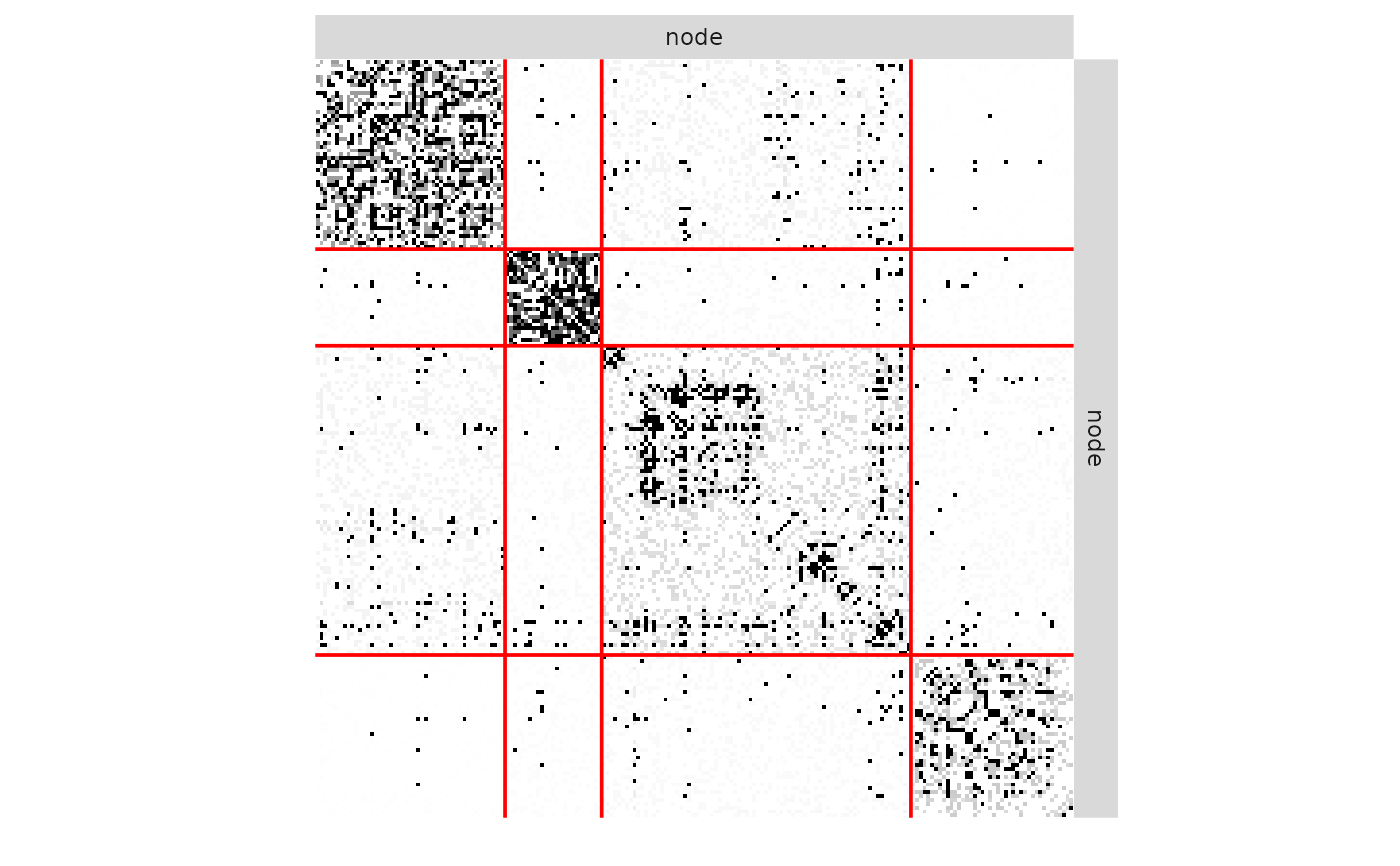
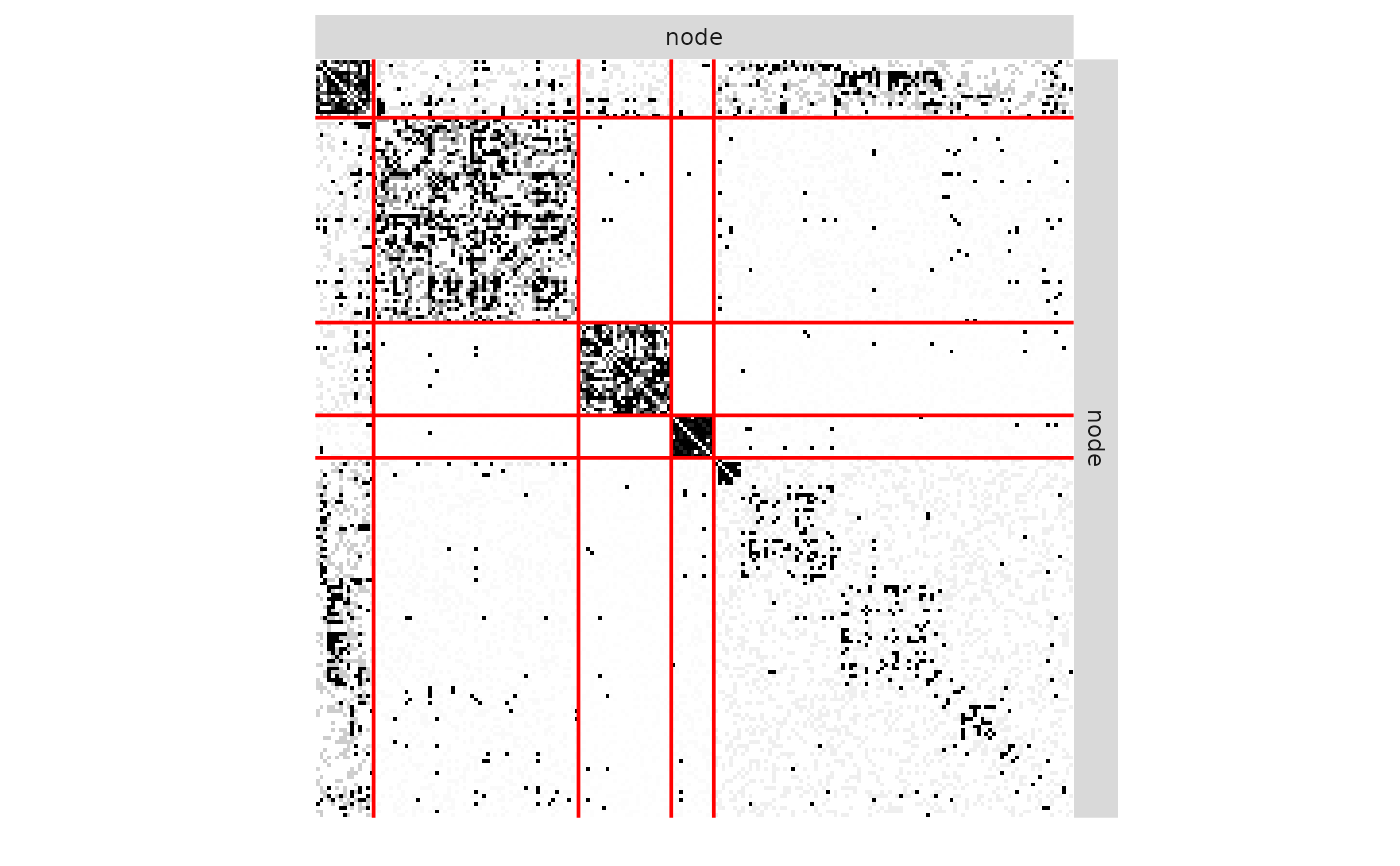
Deploying to gh-pages from @ GrossSBM/missSBM@8db52d9a44d19e7565bcc969e93a358b88ce12c9 🚀

Changed region(s): [[0.215, 0.0624, 0.7679, 0.9353], [0.645, 0.1871, 0.6757, 0.2494]]

diff --git a/articles/index.html b/articles/index.html
@@ -16,10 +16,7 @@
 
     <div id="navbar" class="collapse navbar-collapse ms-3">
       <ul class="navbar-nav me-auto"><li class="nav-item"><a class="nav-link" href="../reference/index.html">Reference</a></li>
-<li class="nav-item dropdown">
-  <button class="nav-link dropdown-toggle" type="button" id="dropdown-articles" data-bs-toggle="dropdown" aria-expanded="false" aria-haspopup="true">Articles</button>
-  <ul class="dropdown-menu" aria-labelledby="dropdown-articles"><li><a class="dropdown-item" href="../articles/case_study_war_networks.html">missSBM: a case study with war networks</a></li>
-  </ul></li>
+<li class="active nav-item"><a class="nav-link" href="../articles/index.html">Articles</a></li>
 <li class="nav-item"><a class="nav-link" href="../news/index.html">Changelog</a></li>
       </ul><ul class="navbar-nav"><li class="nav-item"><form class="form-inline" role="search">
  <input class="form-control" type="search" name="search-input" id="search-input" autocomplete="off" aria-label="Search site" placeholder="Search for" data-search-index="../search.json"></form></li>
@@ -36,11 +33,13 @@
     </div>
 
     <div class="section ">
-      <h3>All vignettes</h3>
+      <h3>Articles</h3>
       <div class="section-desc"></div>
 
       <dl><dt><a href="case_study_war_networks.html">missSBM: a case study with war networks</a></dt>
         <dd>
+        </dd><dt><a href="https://doi.org/10.18637/jss.v101.i12" class="external-link">missSBM: An R Package for Handling Missing Values in the Stochastic Block Model (JSS)</a></dt>
+        <dd><p>The companion paper (Barbillon, Chiquet &amp; Tabouy, 2022), published in the Journal of Statistical Software, describing the models and the missSBM package in detail.</p>
       </dd></dl></div>
   </main></div>
 

diff --git a/index.html b/index.html
@@ -32,12 +32,7 @@
     <div id="navbar" class="collapse navbar-collapse ms-3">
       <ul class="navbar-nav me-auto">
 <li class="nav-item"><a class="nav-link" href="reference/index.html">Reference</a></li>
-<li class="nav-item dropdown">
-  <button class="nav-link dropdown-toggle" type="button" id="dropdown-articles" data-bs-toggle="dropdown" aria-expanded="false" aria-haspopup="true">Articles</button>
-  <ul class="dropdown-menu" aria-labelledby="dropdown-articles">
-<li><a class="dropdown-item" href="articles/case_study_war_networks.html">missSBM: a case study with war networks</a></li>
-  </ul>
-</li>
+<li class="nav-item"><a class="nav-link" href="articles/index.html">Articles</a></li>
 <li class="nav-item"><a class="nav-link" href="news/index.html">Changelog</a></li>
       </ul>
 <ul class="navbar-nav">
@@ -133,7 +128,7 @@
 <div class="sourceCode" id="cb13"><pre class="downlit sourceCode r">
 <code class="sourceCode R"><span><span class="fu"><a href="https://rdrr.io/r/graphics/plot.default.html" class="external-link">plot</a></span><span class="op">(</span><span class="va">partial_fit</span><span class="op">$</span><span class="va">bestModel</span>, <span class="st">"expected"</span>, dimLabels <span class="op">=</span> <span class="fu"><a href="https://rdrr.io/r/base/list.html" class="external-link">list</a></span><span class="op">(</span>row <span class="op">=</span> <span class="st">"blogs"</span>, col <span class="op">=</span> <span class="st">"blogs"</span><span class="op">)</span><span class="op">)</span></span></code></pre></div>
 <p><img src="reference/figures/README-plot-expected-2.png"></p>
-<p>See <code><a href="articles/case_study_war_networks.html">vignette("case_study_war_networks")</a></code> and <a href="https://grosssbm.github.io/missSBM/articles/">the other articles</a> for a more comprehensive tour, including covariates and further sampling designs.</p>
+<p>See <code><a href="articles/case_study_war_networks.html">vignette("case_study_war_networks")</a></code> and <a href="https://doi.org/10.18637/jss.v101.i12" class="external-link">the JSS article</a> for a more comprehensive tour, including covariates and further sampling designs.</p>
 </div>
 </div>
 <div class="section level2">

diff --git a/404.html b/404.html
@@ -30,12 +30,7 @@
     <div id="navbar" class="collapse navbar-collapse ms-3">
       <ul class="navbar-nav me-auto">
 <li class="nav-item"><a class="nav-link" href="https://grosssbm.github.io/missSBM/reference/index.html">Reference</a></li>
-<li class="nav-item dropdown">
-  <button class="nav-link dropdown-toggle" type="button" id="dropdown-articles" data-bs-toggle="dropdown" aria-expanded="false" aria-haspopup="true">Articles</button>
-  <ul class="dropdown-menu" aria-labelledby="dropdown-articles">
-<li><a class="dropdown-item" href="https://grosssbm.github.io/missSBM/articles/case_study_war_networks.html">missSBM: a case study with war networks</a></li>
-  </ul>
-</li>
+<li class="nav-item"><a class="nav-link" href="https://grosssbm.github.io/missSBM/articles/index.html">Articles</a></li>
 <li class="nav-item"><a class="nav-link" href="https://grosssbm.github.io/missSBM/news/index.html">Changelog</a></li>
       </ul>
 <ul class="navbar-nav">

diff --git a/articles/case_study_war_networks.html b/articles/case_study_war_networks.html
@@ -30,12 +30,7 @@
     <div id="navbar" class="collapse navbar-collapse ms-3">
       <ul class="navbar-nav me-auto">
 <li class="nav-item"><a class="nav-link" href="../reference/index.html">Reference</a></li>
-<li class="active nav-item dropdown">
-  <button class="nav-link dropdown-toggle" type="button" id="dropdown-articles" data-bs-toggle="dropdown" aria-expanded="false" aria-haspopup="true">Articles</button>
-  <ul class="dropdown-menu" aria-labelledby="dropdown-articles">
-<li><a class="dropdown-item" href="../articles/case_study_war_networks.html">missSBM: a case study with war networks</a></li>
-  </ul>
-</li>
+<li class="active nav-item"><a class="nav-link" href="../articles/index.html">Articles</a></li>
 <li class="nav-item"><a class="nav-link" href="../news/index.html">Changelog</a></li>
       </ul>
 <ul class="navbar-nav">

diff --git a/reference/missSBM_collection.html b/reference/missSBM_collection.html
@@ -26,10 +26,7 @@ as S3 methods. See the documentation for show() and print()"></head><body>
 
     <div id="navbar" class="collapse navbar-collapse ms-3">
       <ul class="navbar-nav me-auto"><li class="active nav-item"><a class="nav-link" href="../reference/index.html">Reference</a></li>
-<li class="nav-item dropdown">
-  <button class="nav-link dropdown-toggle" type="button" id="dropdown-articles" data-bs-toggle="dropdown" aria-expanded="false" aria-haspopup="true">Articles</button>
-  <ul class="dropdown-menu" aria-labelledby="dropdown-articles"><li><a class="dropdown-item" href="../articles/case_study_war_networks.html">missSBM: a case study with war networks</a></li>
-  </ul></li>
+<li class="nav-item"><a class="nav-link" href="../articles/index.html">Articles</a></li>
 <li class="nav-item"><a class="nav-link" href="../news/index.html">Changelog</a></li>
       </ul><ul class="navbar-nav"><li class="nav-item"><form class="form-inline" role="search">
  <input class="form-control" type="search" name="search-input" id="search-input" autocomplete="off" aria-label="Search site" placeholder="Search for" data-search-index="../search.json"></form></li>
@@ -296,7 +293,7 @@ directions are searched. Default "both".</p></dd>
 <span class="r-out co"><span class="r-pr">#&gt;</span> </span>
 <span class="r-out co"><span class="r-pr">#&gt;</span>  Initialization of 5 model(s). </span>
 <span class="r-out co"><span class="r-pr">#&gt;</span>  Performing VEM inference</span>
-<span class="r-out co"><span class="r-pr">#&gt;</span>  	Model with 1 blocks.
 	Model with 5 blocks.
 	Model with 3 blocks.
 	Model with 4 blocks.
 	Model with 2 blocks.
 Polishing (node-swap)</span>
+<span class="r-out co"><span class="r-pr">#&gt;</span>  	Model with 5 blocks.
 	Model with 1 blocks.
 	Model with 4 blocks.
 	Model with 3 blocks.
 	Model with 2 blocks.
 Polishing (node-swap)</span>
 <span class="r-out co"><span class="r-pr">#&gt;</span> </span>
 <span class="r-out co"><span class="r-pr">#&gt;</span>  Looking for better solutions</span>
 <span class="r-out co"><span class="r-pr">#&gt;</span>  Pass 1   Going forward ++++
                                                                                                    
 Pass 1   Going backward ++++
                                                                                                    
</span>

diff --git a/reference/missSBM_fit.html b/reference/missSBM_fit.html
@@ -24,10 +24,7 @@ as S3 methods. See the documentation for  show(), print(), fitted(), predict(), 
 
     <div id="navbar" class="collapse navbar-collapse ms-3">
       <ul class="navbar-nav me-auto"><li class="active nav-item"><a class="nav-link" href="../reference/index.html">Reference</a></li>
-<li class="nav-item dropdown">
-  <button class="nav-link dropdown-toggle" type="button" id="dropdown-articles" data-bs-toggle="dropdown" aria-expanded="false" aria-haspopup="true">Articles</button>
-  <ul class="dropdown-menu" aria-labelledby="dropdown-articles"><li><a class="dropdown-item" href="../articles/case_study_war_networks.html">missSBM: a case study with war networks</a></li>
-  </ul></li>
+<li class="nav-item"><a class="nav-link" href="../articles/index.html">Articles</a></li>
 <li class="nav-item"><a class="nav-link" href="../news/index.html">Changelog</a></li>
       </ul><ul class="navbar-nav"><li class="nav-item"><form class="form-inline" role="search">
  <input class="form-control" type="search" name="search-input" id="search-input" autocomplete="off" aria-label="Search site" placeholder="Search for" data-search-index="../search.json"></form></li>
@@ -390,7 +387,7 @@ than before the call.</p><div class="section">
 <span class="r-out co"><span class="r-pr">#&gt;</span> </span>
 <span class="r-out co"><span class="r-pr">#&gt;</span>  Initialization of 3 model(s). </span>
 <span class="r-out co"><span class="r-pr">#&gt;</span>  Performing VEM inference</span>
-<span class="r-out co"><span class="r-pr">#&gt;</span>  	Model with 3 blocks.
 	Model with 5 blocks.
 	Model with 4 blocks.
 Polishing (node-swap)</span>
+<span class="r-out co"><span class="r-pr">#&gt;</span>  	Model with 4 blocks.
 	Model with 5 blocks.
 	Model with 3 blocks.
 Polishing (node-swap)</span>
 <span class="r-out co"><span class="r-pr">#&gt;</span> </span>
 <span class="r-out co"><span class="r-pr">#&gt;</span>  Looking for better solutions</span>
 <span class="r-out co"><span class="r-pr">#&gt;</span>  Pass 1   Going forward ++
                                                                                                    
 Pass 1   Going backward ++
                                                                                                    
</span>

diff --git a/LICENSE.html b/LICENSE.html
@@ -16,10 +16,7 @@
 
     <div id="navbar" class="collapse navbar-collapse ms-3">
       <ul class="navbar-nav me-auto"><li class="nav-item"><a class="nav-link" href="reference/index.html">Reference</a></li>
-<li class="nav-item dropdown">
-  <button class="nav-link dropdown-toggle" type="button" id="dropdown-articles" data-bs-toggle="dropdown" aria-expanded="false" aria-haspopup="true">Articles</button>
-  <ul class="dropdown-menu" aria-labelledby="dropdown-articles"><li><a class="dropdown-item" href="articles/case_study_war_networks.html">missSBM: a case study with war networks</a></li>
-  </ul></li>
+<li class="nav-item"><a class="nav-link" href="articles/index.html">Articles</a></li>
 <li class="nav-item"><a class="nav-link" href="news/index.html">Changelog</a></li>
       </ul><ul class="navbar-nav"><li class="nav-item"><form class="form-inline" role="search">
  <input class="form-control" type="search" name="search-input" id="search-input" autocomplete="off" aria-label="Search site" placeholder="Search for" data-search-index="search.json"></form></li>

diff --git a/authors.html b/authors.html
@@ -16,10 +16,7 @@
 
     <div id="navbar" class="collapse navbar-collapse ms-3">
       <ul class="navbar-nav me-auto"><li class="nav-item"><a class="nav-link" href="reference/index.html">Reference</a></li>
-<li class="nav-item dropdown">
-  <button class="nav-link dropdown-toggle" type="button" id="dropdown-articles" data-bs-toggle="dropdown" aria-expanded="false" aria-haspopup="true">Articles</button>
-  <ul class="dropdown-menu" aria-labelledby="dropdown-articles"><li><a class="dropdown-item" href="articles/case_study_war_networks.html">missSBM: a case study with war networks</a></li>
-  </ul></li>
+<li class="nav-item"><a class="nav-link" href="articles/index.html">Articles</a></li>
 <li class="nav-item"><a class="nav-link" href="news/index.html">Changelog</a></li>
       </ul><ul class="navbar-nav"><li class="nav-item"><form class="form-inline" role="search">
  <input class="form-control" type="search" name="search-input" id="search-input" autocomplete="off" aria-label="Search site" placeholder="Search for" data-search-index="search.json"></form></li>

diff --git a/news/index.html b/news/index.html
@@ -16,10 +16,7 @@
 
     <div id="navbar" class="collapse navbar-collapse ms-3">
       <ul class="navbar-nav me-auto"><li class="nav-item"><a class="nav-link" href="../reference/index.html">Reference</a></li>
-<li class="nav-item dropdown">
-  <button class="nav-link dropdown-toggle" type="button" id="dropdown-articles" data-bs-toggle="dropdown" aria-expanded="false" aria-haspopup="true">Articles</button>
-  <ul class="dropdown-menu" aria-labelledby="dropdown-articles"><li><a class="dropdown-item" href="../articles/case_study_war_networks.html">missSBM: a case study with war networks</a></li>
-  </ul></li>
+<li class="nav-item"><a class="nav-link" href="../articles/index.html">Articles</a></li>
 <li class="active nav-item"><a class="nav-link" href="../news/index.html">Changelog</a></li>
       </ul><ul class="navbar-nav"><li class="nav-item"><form class="form-inline" role="search">
  <input class="form-control" type="search" name="search-input" id="search-input" autocomplete="off" aria-label="Search site" placeholder="Search for" data-search-index="../search.json"></form></li>

diff --git a/reference/SimpleSBM_fit.html b/reference/SimpleSBM_fit.html
@@ -18,10 +18,7 @@ SimpleSBM_fit_noCov, SimpleSBM_fit_withCov and SimpleSBM_fit_MNAR."></head><body
 
     <div id="navbar" class="collapse navbar-collapse ms-3">
       <ul class="navbar-nav me-auto"><li class="active nav-item"><a class="nav-link" href="../reference/index.html">Reference</a></li>
-<li class="nav-item dropdown">
-  <button class="nav-link dropdown-toggle" type="button" id="dropdown-articles" data-bs-toggle="dropdown" aria-expanded="false" aria-haspopup="true">Articles</button>
-  <ul class="dropdown-menu" aria-labelledby="dropdown-articles"><li><a class="dropdown-item" href="../articles/case_study_war_networks.html">missSBM: a case study with war networks</a></li>
-  </ul></li>
+<li class="nav-item"><a class="nav-link" href="../articles/index.html">Articles</a></li>
 <li class="nav-item"><a class="nav-link" href="../news/index.html">Changelog</a></li>
       </ul><ul class="navbar-nav"><li class="nav-item"><form class="form-inline" role="search">
  <input class="form-control" type="search" name="search-input" id="search-input" autocomplete="off" aria-label="Search site" placeholder="Search for" data-search-index="../search.json"></form></li>

diff --git a/reference/SimpleSBM_fit_MNAR.html b/reference/SimpleSBM_fit_MNAR.html
@@ -16,10 +16,7 @@
 
     <div id="navbar" class="collapse navbar-collapse ms-3">
       <ul class="navbar-nav me-auto"><li class="active nav-item"><a class="nav-link" href="../reference/index.html">Reference</a></li>
-<li class="nav-item dropdown">
-  <button class="nav-link dropdown-toggle" type="button" id="dropdown-articles" data-bs-toggle="dropdown" aria-expanded="false" aria-haspopup="true">Articles</button>
-  <ul class="dropdown-menu" aria-labelledby="dropdown-articles"><li><a class="dropdown-item" href="../articles/case_study_war_networks.html">missSBM: a case study with war networks</a></li>
-  </ul></li>
+<li class="nav-item"><a class="nav-link" href="../articles/index.html">Articles</a></li>
 <li class="nav-item"><a class="nav-link" href="../news/index.html">Changelog</a></li>
       </ul><ul class="navbar-nav"><li class="nav-item"><form class="form-inline" role="search">
  <input class="form-control" type="search" name="search-input" id="search-input" autocomplete="off" aria-label="Search site" placeholder="Search for" data-search-index="../search.json"></form></li>

diff --git a/reference/SimpleSBM_fit_noCov.html b/reference/SimpleSBM_fit_noCov.html
@@ -16,10 +16,7 @@
 
     <div id="navbar" class="collapse navbar-collapse ms-3">
       <ul class="navbar-nav me-auto"><li class="active nav-item"><a class="nav-link" href="../reference/index.html">Reference</a></li>
-<li class="nav-item dropdown">
-  <button class="nav-link dropdown-toggle" type="button" id="dropdown-articles" data-bs-toggle="dropdown" aria-expanded="false" aria-haspopup="true">Articles</button>
-  <ul class="dropdown-menu" aria-labelledby="dropdown-articles"><li><a class="dropdown-item" href="../articles/case_study_war_networks.html">missSBM: a case study with war networks</a></li>
-  </ul></li>
+<li class="nav-item"><a class="nav-link" href="../articles/index.html">Articles</a></li>
 <li class="nav-item"><a class="nav-link" href="../news/index.html">Changelog</a></li>
       </ul><ul class="navbar-nav"><li class="nav-item"><form class="form-inline" role="search">
  <input class="form-control" type="search" name="search-input" id="search-input" autocomplete="off" aria-label="Search site" placeholder="Search for" data-search-index="../search.json"></form></li>